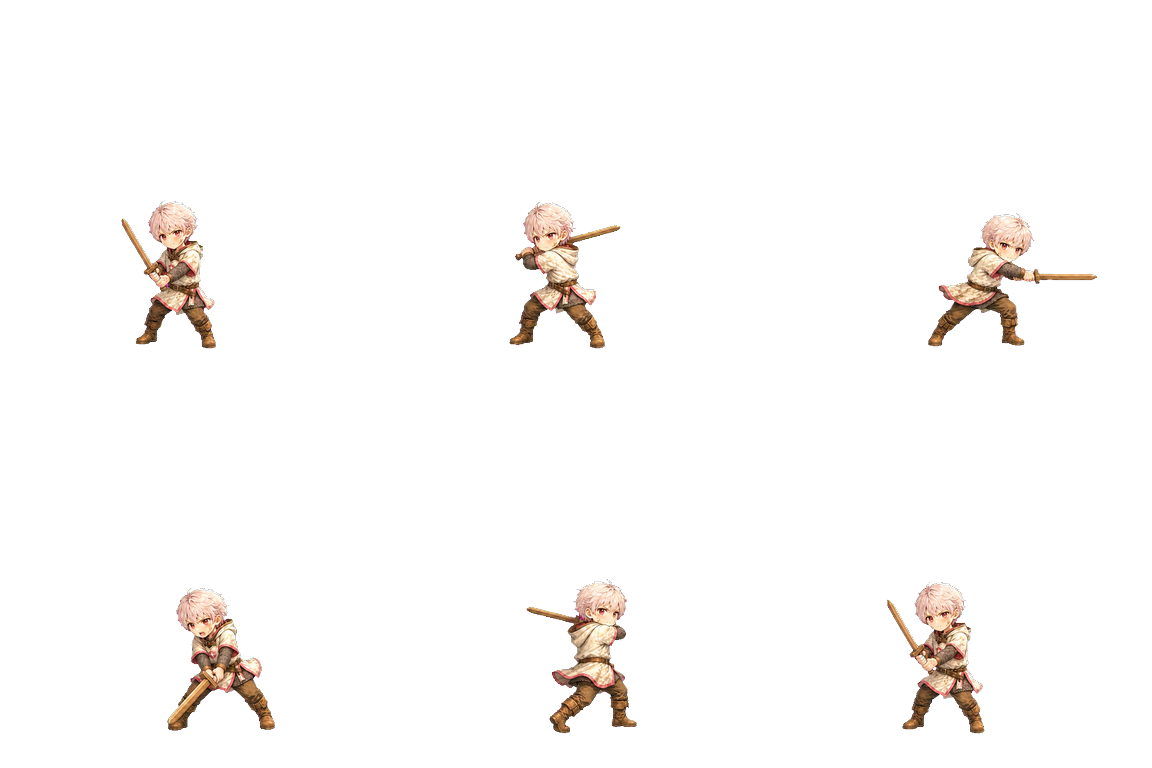
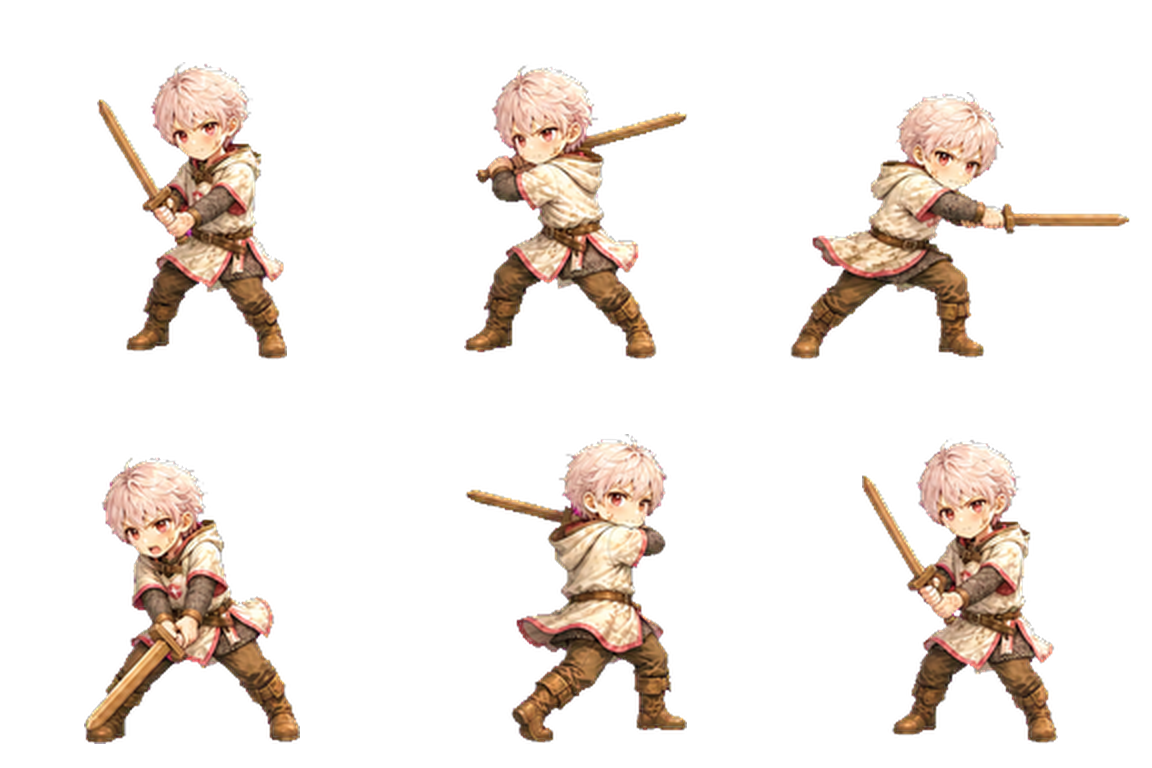
fix: normalize Adriel attack scale

diff --git a/play.html b/play.html
@@ -30,7 +30,7 @@
 <link rel="manifest" href="manifest.webmanifest">
 <link rel="icon" type="image/svg+xml" href="assets/icon.svg">
 <link rel="apple-touch-icon" href="assets/icon.svg">
-<link rel="stylesheet" href="styles-v9.3.css?v=9.3.20">
+<link rel="stylesheet" href="styles-v9.3.css?v=9.3.23">
 </head>
 <body>
 <div class="scene-bg" data-screen="menu"></div>
@@ -440,8 +440,8 @@
   </div>
 </div>
 <script>window.addEventListener('error',function(e){(window.__bootErrors=window.__bootErrors||[]).push({m:String(e.message).slice(0,200),l:e.lineno,c:e.colno})});</script>
-<script src="v9.3-config.js?v=9.3.20"></script>
-<script src="game-v9.3.js?v=9.3.20" defer></script>
+<script src="v9.3-config.js?v=9.3.23"></script>
+<script src="game-v9.3.js?v=9.3.23" defer></script>
 
 </body>
 </html>

diff --git a/sw.js b/sw.js
@@ -1,7 +1,7 @@
 /* 12 Reinos — service worker
    Núcleo (html/js/css/manifest): network-first com fallback ao cache (offline).
    Assets pesados (imagens): cache-first com atualização em segundo plano. */
-const CACHE = '12r-v9.3.20';
+const CACHE = '12r-v9.3.23';
 const CORE = [
   './play.html',
   './styles-v9.3.css',

diff --git a/tools/normalize_adriel_attack.py b/tools/normalize_adriel_attack.py
@@ -1,0 +1,49 @@
+from pathlib import Path
+from PIL import Image
+
+
+ROOT = Path(__file__).resolve().parents[1]
+SOURCE = ROOT / "assets/characters/runtime-v7/adriel-jovem/attack-2x3.png"
+OUTPUT = ROOT / "assets/characters/runtime-v7/adriel-jovem/attack-2x3.png"
+
+COLS, ROWS = 3, 2
+FRAME_W = FRAME_H = 384
+TARGET_BODY_HEIGHT = 310
+GROUND_Y = 360
+
+
+def main():
+    sheet = Image.open(SOURCE).convert("RGBA")
+    result = Image.new("RGBA", sheet.size, (0, 0, 0, 0))
+
+    frames = []
+    bounds = []
+    for index in range(COLS * ROWS):
+        col, row = index % COLS, index // COLS
+        frame = sheet.crop((col * FRAME_W, row * FRAME_H, (col + 1) * FRAME_W, (row + 1) * FRAME_H))
+        bbox = frame.getchannel("A").getbbox()
+        if not bbox:
+            raise RuntimeError(f"Frame {index + 1} vazio")
+        frames.append(frame)
+        bounds.append(bbox)
+
+    max_height = max(bottom - top for _, top, _, bottom in bounds)
+    scale = TARGET_BODY_HEIGHT / max_height
+
+    for index, (frame, bbox) in enumerate(zip(frames, bounds)):
+        col, row = index % COLS, index // COLS
+        cropped = frame.crop(bbox)
+        size = (round(cropped.width * scale), round(cropped.height * scale))
+        sprite = cropped.resize(size, Image.Resampling.LANCZOS)
+
+        # Mesmo chão e mesmo centro corporal em todos os quadros.
+        # A espada permanece dentro da célula sem alterar a escala entre poses.
+        x = (FRAME_W - sprite.width) // 2
+        y = GROUND_Y - sprite.height
+        result.alpha_composite(sprite, (col * FRAME_W + x, row * FRAME_H + y))
+
+    result.save(OUTPUT, optimize=True)
+
+
+if __name__ == "__main__":
+    main()
